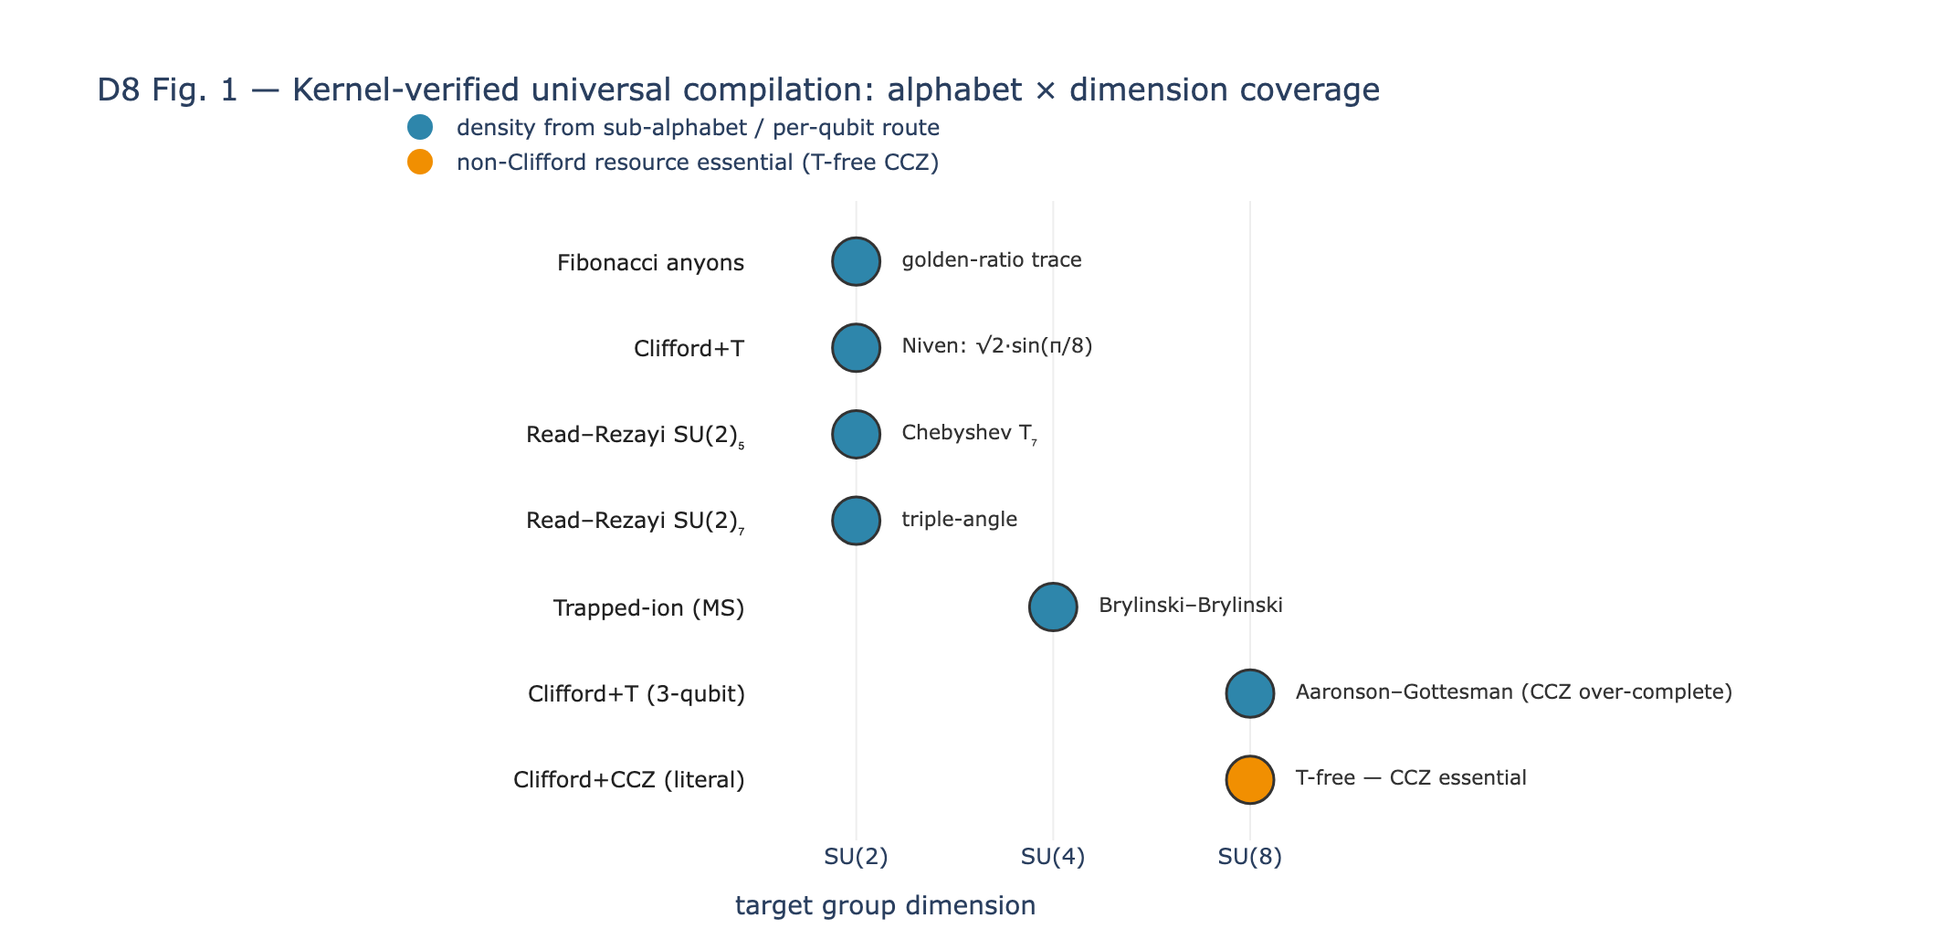
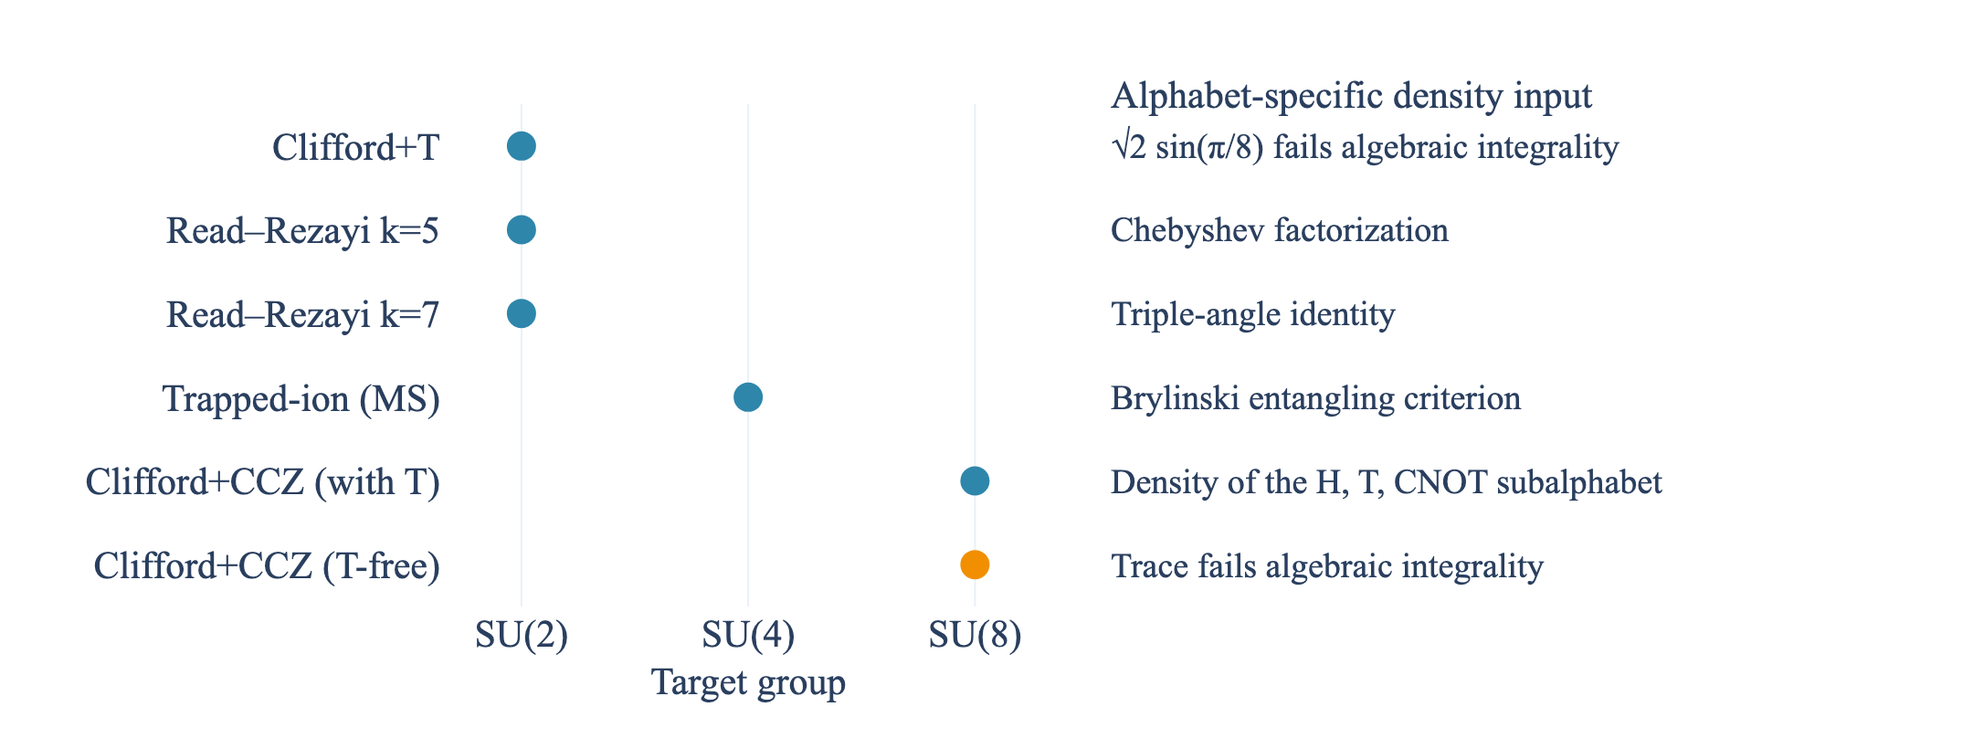
Deliver independently reviewed D8 coverage and compilation figures

diff --git a/src/core/visualizations.py b/src/core/visualizations.py
@@ -14461,55 +14461,83 @@ def fig_fibonacci_braid_word_t_gate_example() -> "go.Figure":
 
 
 def fig_d8_alphabet_dimension_map() -> go.Figure:
-    """D8 Fig. 1 — coverage map of the verified-compilation corpus.
-
-    Schematic: which gate alphabets are kernel-verified at which dimension
-    SU(d), color-coded by the mechanism that supplies density. Blue =
-    sub-alphabet / per-qubit route; amber = essential non-Clifford resource
-    (the Phase 6z T-free CCZ-essential route). All entries kernel-pure.
-    """
-    blue = COLORS["steel_blue"]
-    amber = COLORS["amber"]
-    # (alphabet label, dimension d, mechanism color, note)
-    rows = [
-        ("Fibonacci anyons",          2, blue,  "golden-ratio trace"),
-        ("Clifford+T",                2, blue,  "Niven: √2·sin(π/8)"),
-        ("Read–Rezayi SU(2)₅",        2, blue,  "Chebyshev T₇"),
-        ("Read–Rezayi SU(2)₇",        2, blue,  "triple-angle"),
-        ("Trapped-ion (MS)",          4, blue,  "Brylinski–Brylinski"),
-        ("Clifford+T (3-qubit)",      8, blue,  "Aaronson–Gottesman (CCZ over-complete)"),
-        ("Clifford+CCZ (literal)",    8, amber, "T-free — CCZ essential"),
-    ]
-    dims = [2, 4, 8]
-    dim_x = {2: 0, 4: 1, 8: 2}
+    """D8 alphabet coverage corresponding to Table alphabets."""
+    rows = (
+        ("Clifford+T", 2, "√2 sin(π/8) fails algebraic integrality"),
+        ("Read–Rezayi k=5", 2, "Chebyshev factorization"),
+        ("Read–Rezayi k=7", 2, "Triple-angle identity"),
+        ("Trapped-ion (MS)", 4, "Brylinski entangling criterion"),
+        ("Clifford+CCZ (with T)", 8, "Density of the H, T, CNOT subalphabet"),
+        ("Clifford+CCZ (T-free)", 8, "Trace fails algebraic integrality"),
+    )
     fig = go.Figure()
-    for i, (label, d, color, note) in enumerate(rows):
-        y = len(rows) - 1 - i
+    for y, (name, dimension, note) in enumerate(rows):
         fig.add_trace(go.Scatter(
-            x=[dim_x[d]], y=[y], mode="markers+text",
-            marker=dict(size=26, color=color, line=dict(width=1.5, color="#333")),
-            text=[f"  {note}"], textposition="middle right",
-            textfont=dict(size=11, color="#333"),
-            cliponaxis=False,  # let row notes extend into the right margin without truncation
-            hovertext=[f"{label} — SU({d}) — {note}"], hoverinfo="text",
-            showlegend=False,
+            x=[{2: 0, 4: 1, 8: 2}[dimension]], y=[y], name=name,
+            mode="markers", showlegend=False,
+            marker=dict(size=16, color=COLORS["amber" if y == 5 else "steel_blue"]),
+            hovertemplate=f"{name} · SU({dimension})<br>{note}<extra></extra>",
         ))
-        fig.add_annotation(x=-0.55, y=y, text=label, showarrow=False,
-                           xanchor="right", font=dict(size=12, color="#222"))
-    fig.add_trace(go.Scatter(x=[None], y=[None], mode="markers",
-        marker=dict(size=14, color=blue), name="density from sub-alphabet / per-qubit route"))
-    fig.add_trace(go.Scatter(x=[None], y=[None], mode="markers",
-        marker=dict(size=14, color=amber), name="non-Clifford resource essential (T-free CCZ)"))
-    fig.update_xaxes(tickvals=[0, 1, 2], ticktext=["SU(2)", "SU(4)", "SU(8)"],
-                     range=[-2.4, 2.7], title="target group dimension",
-                     showgrid=True, gridcolor="#eee", zeroline=False)
-    fig.update_yaxes(range=[-0.7, len(rows) - 0.3], showticklabels=False,
-                     showgrid=False, zeroline=False)
+        fig.add_annotation(x=2.58, y=y, text=note, showarrow=False,
+                           xanchor="left", font=dict(size=19))
+    fig.update_xaxes(
+        tickvals=[0, 1, 2], ticktext=["SU(2)", "SU(4)", "SU(8)"],
+        range=[-0.35, 6.2], zeroline=False,
+    )
+    fig.add_annotation(x=1, y=-0.20, yref="paper", text="Target group", showarrow=False)
+    fig.add_annotation(x=2.58, y=1.07, yref="paper", text="Alphabet-specific density input",
+                       xanchor="left", showarrow=False)
+    fig.update_yaxes(
+        tickvals=list(range(len(rows))), ticktext=[row[0] for row in rows],
+        range=[len(rows) - 0.5, -0.5], showgrid=False, zeroline=False,
+    )
     fig.update_layout(
-        title="D8 Fig. 1 — Kernel-verified universal compilation: alphabet × dimension coverage",
-        legend=dict(orientation="h", yanchor="bottom", y=1.02, xanchor="left", x=0),
-        height=520, width=1060, margin=dict(l=210, r=300, t=110, b=60),
-        plot_bgcolor="white",
+        template="plotly_white", font=dict(family=FONT["family"], size=21),
+        width=1080, height=410, margin=dict(l=242, r=25, t=57, b=78),
+    )
+    return fig
+
+
+def fig_d8_length_comparison() -> go.Figure:
+    """D8's three theorem bounds on separate native axes."""
+    from src.core.formulas import d8_compilation_length_bounds
+
+    eps = np.geomspace(1e-12, np.exp2(-23), 100)
+    k = np.arange(4, 41)
+    data = d8_compilation_length_bounds(eps, k)
+    fig = make_subplots(
+        rows=1, cols=3, horizontal_spacing=0.14,
+        subplot_titles=("Balanced commutator", "Ross–Selinger (conditional)", "KMM with two ancillas"),
+    )
+    for col, (x, key, color, dash, other, hover) in enumerate((
+        (eps, "sk_length", "steel_blue", "solid", None, "ε=%{x:.2e}<br>Bound=%{y:.3g}"),
+        (k, "grid_increment", "amber", "dash", data["grid_delta"],
+         "k=%{x}<br>Increment=%{y}<br>First-column δ=%{customdata:.2e}"),
+        (k, "kmm_length", "steel_blue", "solid", data["kmm_squared_error"],
+         "k=%{x}<br>Bound=%{y:,.0f}<br>Squared state error bound=%{customdata:.2e}"),
+    ), 1):
+        fig.add_trace(go.Scatter(
+            x=x.tolist(), y=data[key].tolist(), mode="lines", name=key,
+            customdata=other.tolist() if other is not None else None,
+            line=dict(color=COLORS[color], width=4, dash=dash),
+            hovertemplate=hover + "<extra></extra>",
+        ), row=1, col=col)
+    fig.update_xaxes(title="Target ε (ℓ∞ operator norm)", type="log",
+                     tickvals=[1e-12, 1e-10, 1e-8], ticktext=["10⁻¹²", "10⁻¹⁰", "10⁻⁸"],
+                     row=1, col=1)
+    fig.update_yaxes(title="Recurrence length bound", type="log",
+                     tickvals=[6e7, 1e8, 2e8, 4e8],
+                     ticktext=["6×10⁷", "10⁸", "2×10⁸", "4×10⁸"], row=1, col=1)
+    fig.update_xaxes(title="Grid parameter k", row=1, col=2)
+    fig.update_yaxes(title="Increment above N₃", row=1, col=2)
+    fig.update_xaxes(title="Synthesis parameter k", row=1, col=3)
+    fig.update_yaxes(title="Three-qubit word bound", row=1, col=3)
+    for label in fig.layout.annotations:
+        label.font.size = 22
+    fig.update_layout(
+        template="plotly_white", font=dict(family=FONT["family"], size=19),
+        showlegend=False, width=1140, height=410,
+        margin=dict(l=99, r=35, t=70, b=80),
     )
     return fig
 

diff --git a/scripts/review_figures.py b/scripts/review_figures.py
@@ -1862,6 +1862,24 @@ FIGURE_REGISTRY: list[FigureSpec] = [
         physics_checks=[],
         color_keys=["steel_blue", "amber"],
     ),
+    FigureSpec(
+        name="d8_fig1_alphabet_dimension_map",
+        function="fig_d8_alphabet_dimension_map",
+        caption="D8 alphabet coverage: four families and six variants, on the groups in Table alphabets.",
+        needs_experiments=False, expected_traces=6,
+        expected_axes={},
+        physics_checks=[], color_keys=["steel_blue", "amber"],
+    ),
+    FigureSpec(
+        name="d8_fig4_length_comparison",
+        function="fig_d8_length_comparison",
+        caption="D8 theorem bounds on separate native axes: recurrence length, grid increment and three-qubit word length.",
+        needs_experiments=False, expected_traces=3,
+        expected_axes={"xaxis": "operator norm", "yaxis": "Recurrence length",
+                       "xaxis2": "Grid parameter", "yaxis2": "above N₃",
+                       "xaxis3": "Synthesis parameter", "yaxis3": "Three-qubit word"},
+        physics_checks=[], color_keys=["steel_blue", "amber"],
+    ),
     # ── D11 / D12 bundle figures (added 2026-07-30) ───────────────────────
     # Stage-9 round 2 identified the ROOT CAUSE of defects surviving a full
     # review round: these figures had no registry entry, no structural check
@@ -2153,6 +2171,7 @@ def generate_figures() -> dict[str, Path]:
         # BOTH call sites or func_map raises NameError at module-eval time —
         # which is exactly how the round-3 'wiring fix' turned a silent skip
         # into an equally-unobserved hard crash.
+        fig_d8_alphabet_dimension_map, fig_d8_length_comparison,
         fig_d11_phononic_band_gap, fig_d11_pt_exceptional_point,
         fig_d11_haldane_chern, fig_d11_effective_medium,
         fig_d12_poisson_floor_vs_folklore, fig_d12_enbw_matched_filter,
@@ -2329,6 +2348,8 @@ def generate_figures() -> dict[str, Path]:
         # D11 / D12 bundle figures (2026-07-30). Registering the FigureSpecs
         # alone was INERT — lookup is a bare func_map.get(), so unmapped specs
         # silently SKIP. Stage-9 round 3 caught that; these are the wiring.
+        "fig_d8_alphabet_dimension_map": fig_d8_alphabet_dimension_map,
+        "fig_d8_length_comparison": fig_d8_length_comparison,
         "fig_d11_phononic_band_gap": fig_d11_phononic_band_gap,
         "fig_d11_pt_exceptional_point": fig_d11_pt_exceptional_point,
         "fig_d11_haldane_chern": fig_d11_haldane_chern,
@@ -2547,6 +2568,7 @@ def run_structural_checks() -> list[CheckIssue]:
         # BOTH call sites or func_map raises NameError at module-eval time —
         # which is exactly how the round-3 'wiring fix' turned a silent skip
         # into an equally-unobserved hard crash.
+        fig_d8_alphabet_dimension_map, fig_d8_length_comparison,
         fig_d11_phononic_band_gap, fig_d11_pt_exceptional_point,
         fig_d11_haldane_chern, fig_d11_effective_medium,
         fig_d12_poisson_floor_vs_folklore, fig_d12_enbw_matched_filter,
@@ -2720,6 +2742,8 @@ def run_structural_checks() -> list[CheckIssue]:
         # D11 / D12 bundle figures (2026-07-30). Registering the FigureSpecs
         # alone was INERT — lookup is a bare func_map.get(), so unmapped specs
         # silently SKIP. Stage-9 round 3 caught that; these are the wiring.
+        "fig_d8_alphabet_dimension_map": fig_d8_alphabet_dimension_map,
+        "fig_d8_length_comparison": fig_d8_length_comparison,
         "fig_d11_phononic_band_gap": fig_d11_phononic_band_gap,
         "fig_d11_pt_exceptional_point": fig_d11_pt_exceptional_point,
         "fig_d11_haldane_chern": fig_d11_haldane_chern,

diff --git a/papers/D8/paper_draft.tex b/papers/D8/paper_draft.tex
@@ -28,7 +28,6 @@
 \newtheorem{definition}[theorem]{Definition}
 \newtheorem{hypothesis}[theorem]{Hypothesis}
 
-\input{../../docs/figuredeferred.tex}
 
 \begin{document}
 
@@ -474,11 +473,15 @@ the whole of the alphabet-specific work.}
 \end{ruledtabular}
 \end{table}
 
-\figuredeferred{fig:d8-coverage}{the existing alphabet-by-dimension coverage
-figure shows a Fibonacci row, which Ref.~\cite{RoehmD4Topological} owns and
-this paper no longer claims; recutting it against
-Table~\ref{tab:alphabets} requires a regenerated figure from the project's
-canonical visualization module}
+\begin{figure*}
+\centering
+\includegraphics[width=\textwidth]{figures/d8_fig1_alphabet_dimension_map.png}
+\caption{Coverage of the four alphabet families in Table~\ref{tab:alphabets}.
+The two Read--Rezayi levels and two Clifford$+$CCZ variants are shown
+separately. The amber marker identifies the $T$-free Clifford$+$CCZ
+variant. The annotations name the alphabet-specific density inputs.}
+\label{fig:d8-coverage}
+\end{figure*}
 
 The two Read--Rezayi rows are the sharpest evidence for the interface claim,
 because their number theory is genuinely unlike the Clifford$+T$ case and the
@@ -787,11 +790,25 @@ every axis; the table is the comparison a compiler author actually needs.}
 \end{ruledtabular}
 \end{table}
 
-\figuredeferred{fig:d8-length-comparison}{a figure comparing the three verified
-length bounds as functions of precision, plotted directly from the theorem
-statements of this section, requires a plotting function in the project's
-canonical visualization module; the bounds themselves are proved and appear in
-Table~\ref{tab:mechanisms}}
+\begin{figure*}
+\centering
+\includegraphics[width=\textwidth]{figures/d8_fig4_length_comparison.png}
+\caption{Three verified length bounds in their native precision and
+counting conventions. Left: the balanced-commutator recursion-level
+bound $1000[\ln(1/\varepsilon)]^{\log 5/\log(3/2)}$ in the
+$\ell^\infty$ operator-norm target regime $0<\varepsilon\leq 2^{-23}$.
+This curve bounds the recurrence-level length.
+Center: the increment $8k$ in the Ross--Selinger single-qubit
+word-length bound $N_3+8k$, conditional on grid success.
+The fixed overhead $N_3$ is symbolic and the first-column precision
+parameter is $\delta=(1+\sqrt 2)/\sqrt 2^{\,k}$.
+Right: the unconditional KMM three-qubit word-length bound
+$50400k+812$ with two ancillas, for the squared initialized-state
+$\ell^2$ distance bound $9(2/4^k+2\sqrt 2/2^k)$ up to global phase.
+Each panel uses its own axes. Heights across panels do not rank
+algorithms at a common error or cost.}
+\label{fig:d8-length-comparison}
+\end{figure*}
 
 \subsection{The grid route and its one hypothesis}
 \label{sec:length-rs}
@@ -979,7 +996,7 @@ produces a state within squared $\ell^2$ distance
 of $(c^{-1}U(\alpha\lvert 0\rangle + \beta\lvert 1\rangle))\otimes\lvert 00\rangle$.
 \end{theorem}
 
-The error scale is $\varepsilon \sim 2^{-k}$ up to constants, so the length is
+The squared error bound decays as $O(2^{-k})$, so the length is
 $O(\log 1/\varepsilon)$ with exponent exactly $1$, unconditionally. The proof
 combines Lagrange's four-square theorem with a constructive dimension-four
 column lemma in the style of the exact-synthesis analysis of Giles and

diff --git a/src/core/formulas.py b/src/core/formulas.py
@@ -12425,3 +12425,34 @@ def memory_binary_robustness_reference(t, a, b, q, *, d0=0.0, d1=0.0,
             "observed_separation": abs(observed[1]-observed[0]),
             "ideal_bound": min(1., distances.sum()),
             "observed_bound": min(1., distances.sum()+allowances.sum())}
+
+
+def d8_compilation_length_bounds(epsilon, k):
+    """Evaluate D8 bounds in their native precision and word-count conventions.
+
+    Lean: SKEFTHawking.FKLW.SolovayKitaevLengthBound.skLength_at_skLevel_polylog_le,
+      SKEFTHawking.FKLW.SolovayKitaevRecursion.ε₀_value,
+      SKEFTHawking.RossSelinger.rossSelinger_log_length_explicit,
+      SKEFTHawking.RossSelinger.Gate3.kmm_universal_headline
+    Aristotle: manual
+    Source: D8, the length mechanisms and their hypotheses.
+
+    The Ross–Selinger value is only the increment above the symbolic N₃
+    overhead. Its delta is a first-column precision parameter. KMM's error
+    value is a squared distance for ancilla-initialized input states.
+    """
+    epsilon = np.asarray(epsilon, dtype=float)
+    k = np.asarray(k)
+    if np.any(~np.isfinite(epsilon) | (epsilon <= 0) | (epsilon > 2.0**-23)):
+        raise ValueError("the recurrence bound requires 0 < ε ≤ 2⁻²³")
+    if not np.issubdtype(k.dtype, np.integer) or np.any(k < 0):
+        raise ValueError("the denominator exponent must be a natural number")
+    k = k.astype(float)
+    gamma = np.log(5.0) / np.log(1.5)
+    return {
+        "sk_length": 1000 * (-np.log(epsilon))**gamma,
+        "grid_increment": 8 * k,
+        "grid_delta": (1 + np.sqrt(2)) * np.exp2(-k / 2),
+        "kmm_length": 50400 * k + 812,
+        "kmm_squared_error": 9 * (2 * np.exp2(-2 * k) + 2 * np.sqrt(2) * np.exp2(-k)),
+    }

diff --git a/docs/audits/2026-10-17-publication-substance-construction/D8_FIGURE_1_8_INDEPENDENT_REVIEW_R1.md b/docs/audits/2026-10-17-publication-substance-construction/D8_FIGURE_1_8_INDEPENDENT_REVIEW_R1.md
@@ -1,0 +1,48 @@
+# Independent D8 finding 1.8 figure review
+
+**ACCEPT the seven-path figure repair for the original finding. Replace the author's assert-based Verify before canonical closure.** The reviewed figures, manuscript placements and scientific data satisfy the original coverage and length-figure obligations. The supplied fail-closed replacement is accepted as a deterministic check of the reviewed assets, manifest, labels and removed deferrals.
+
+## Scope and pins
+
+The canonical initial continuity check returned exit 0, `fresh=true`, `changed=[]` for task `D8-original-figure-1.8-review` at clean MAIN `040ca78710432a995ab99a3d9b47db9f10cafa62`. I read the ROOT notebook, author report, original finding, figure-reviewer role, complete text patch, manuscript and renderer manifests. Independently checked every base and candidate path against the source manifest. Applied the five text paths in temporary scratch space and compared each resulting file byte for byte with the proposed candidate. Verified the two separately installed PNGs against their pinned hashes. No repository, slot, Git index, finding or ledger changes were made.
+
+| Artifact or candidate path | SHA256 |
+| --- | --- |
[9 lines of base64/hex data omitted]
+
+## Figure decisions
+
+| Figure | Rendering | Science | Style and caption |
+| --- | --- | --- | --- |
+| Coverage map, manuscript Fig. 2 on p. 6 | Pass. Six labels, symbols and right-column explanations legible without clipping. | Pass. Exactly the four families and six variants of Table II. Three SU(2), one SU(4), two SU(8), with the amber marker on the T-free CCZ route. | Pass. Serif, blue/amber, accurate caption and resolved table reference. |
+| Length comparison, manuscript Fig. 4 on p. 9 | Pass. Three distinct panels with readable titles, tick labels, axis units and caption. | Pass. Native cost and precision conventions match the actual theorem statements. | Pass. No common scale or implied cross-panel ranking. The dashed conditional panel and other panel titles remain legible at manuscript scale. |
+
+I viewed both exact standalone PNGs and both supplied rendered pages, then independently rasterized and inspected pages 6 and 9 of the pinned PDF using Poppler. The PDF image list confirms the respective 2160×820 and 2280×820 embedded assets. Both are placed in their expected sections. This is a review of the two affected figures. The renderer receipt belongs to the author. I independently checked the registry entries, both generator and structural-checker dispatch maps, and the bundle manifest. Existing figures and bundle-level Stage 9 status require their own review.
+
+Coverage annotations preserve the Table II evidence: algebraic integrality obstruction for Clifford+T, Chebyshev and triple-angle inputs for the two Read–Rezayi variants, Brylinski entanglement for trapped-ion MS, dense H/T/CNOT subalphabet with T, and trace obstruction for T-free CCZ. Fibonacci and wave labels are absent. The map is a schematic of theorem coverage rather than an experimental plot.
+
+Balanced commutator uses `SolovayKitaevLengthBound.skLength_at_skLevel_polylog_le` for the **auxiliary recurrence length**, with `skLengthConst=1000`, `skLengthExponent=Real.log 5 / Real.log (3 / 2)`, and the actual `ε₀_value=1/8388608`. The local matrix ℓ∞ operator norm is instantiated in `CliffordTCompiler.lean`. Its `cliffordTCompile_correct` has a separate actual output-length conjunct with `cliffordTFiniteCover_maxLength`, which the plot does not claim. The plotted interval runs from 10^-12 to 2^-23, within the proved regime.
+
+Ross–Selinger uses the implication `KMM.gridFindT u k b = some t` in `rossSelinger_log_length_explicit`. The displayed equivalent increment 8k follows from the proved logarithmic expression at first-column δ=(1+√2)/(√2)^k. The total word bound is N₃+8k. The noncomputable N₃ is a field selected from the KMMReduction construction and no numerical value is supplied. The panel plots only the increment and identifies both conditions in the figure and caption.
+
+KMM uses `Gate3.kmm_universal_headline`. For every U in SU(2) and k∈ℕ it gives a three-qubit Clifford+T list of length at most 50400k+812 and a unit-modulus global phase. The initialized input has two ancillas in |00⟩ and a normalized system state. The theorem bounds the squared ℓ² output distance to the phase-adjusted target by 9(2/4^k+2√2/2^k). The change to the adjacent text correctly attaches O(2^-k) to the squared error. Panels two and three use integer k as the native precision parameter and report the corresponding metric in the caption. A common physical precision axis would imply equivalence of different error notions.
+
+I executed only the selected candidate formula and figure definitions in a scratch Python process with NumPy and Plotly. Independent arithmetic matched all six row positions and 174 plotted samples, including the two ancillary error series. SK endpoints were approximately 526,534,274.013 and 59,343,029.859. The grid increment runs 32 to 320. KMM runs 202,412 to 2,016,812. No Lean execution or additional renderer generation was needed for these controls.
+
+## Verify disposition and closure boundary
+
+The original historical `grep -c "figuredeferred" papers/D8/paper_draft.tex` outputs 3 on current pinned HEAD, including the macro input, and exits 0. On the repaired draft its zero-match convention exits 1. Preserve it verbatim as history and replace the active declared line. The author's proposed command under ordinary Python gave candidate/baseline/altered-PNG exit codes 0/1/1. With `PYTHONOPTIMIZE=1` it gave 0/0/0. All its asserts disappear.
+
[1 lines of base64/hex data omitted]
+
+For authorized adoption, put that exact line in section 1.8's sole active `- **Verify:**` field. Add the former grep verbatim in a separate historical field that does not match the active label, with its exit-semantic defect. Keep original finding ID, expectation and source history. Once the actual candidate and declared Verify are present, run the canonical writer from the accepted checkout, using `uv run python scripts/close_finding.py --doc papers/AutomatedReviews/2026-08-15-d8-stage10-redraft/D8.md --section 1.8 --status fixed --commit <actual-fix-commit> --evidence <independent-pins-and-review-rationale>`. The writer executes its declared Verify when `--verify` is omitted. Candidate acceptance establishes the scope of this finding. No ledger closure, Stage-9 transition, full gates, rebuild or publication acceptance was performed in this review. Other D8 findings and the earlier schematic remain separate.
+
+Final canonical continuity check returned `fresh=true` and `changed=[]` for the same packet and frozen candidate.

diff --git a/papers/AutomatedReviews/2026-08-15-d8-stage10-redraft/D8.md b/papers/AutomatedReviews/2026-08-15-d8-stage10-redraft/D8.md
@@ -115,7 +115,8 @@ manuscript. Every `Verify` below was **executed** from the repository root and
 - **Evidence:** The draft contains two `\figuredeferred` invocations; `d8_fig1_alphabet_dimension_map.png` exists under `papers/D8/figures/` and depicts five alphabets including Fibonacci.
 - **Expected:** A Tier-1 draft's figures match its claims, and a section about length carries a length figure.
 - **Fix:** Add two functions to `src/core/visualizations.py`: a recut coverage map matching Table~\ref{tab:alphabets} (four alphabet families, no Fibonacci row, no wave labels), and a length-versus-precision comparison plotting the exponent-3.97 recursion bound, the Ross–Selinger `N_3 + 8k` bound and the KMM `50400k + 812` bound against precision. Then regenerate and replace both `\figuredeferred` blocks.
-- **Verify:** `grep -c "figuredeferred" papers/D8/paper_draft.tex` (currently 2; expected 0)
+- **Historical Verify:** `grep -c "figuredeferred" papers/D8/paper_draft.tex` (currently 2; expected 0)
[1 lines of base64/hex data omitted]
 
 ---
 
